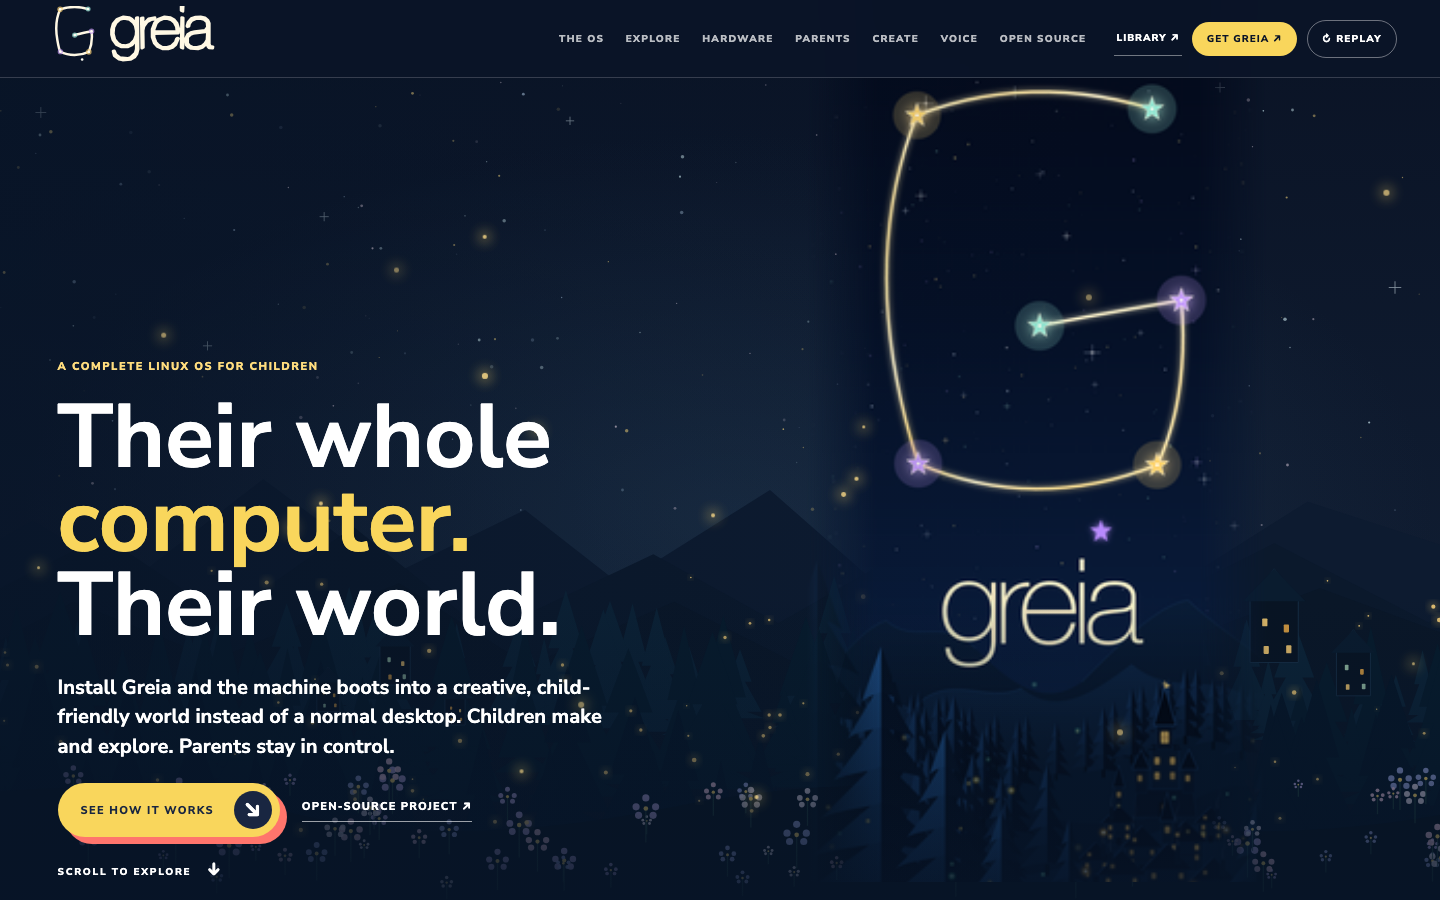
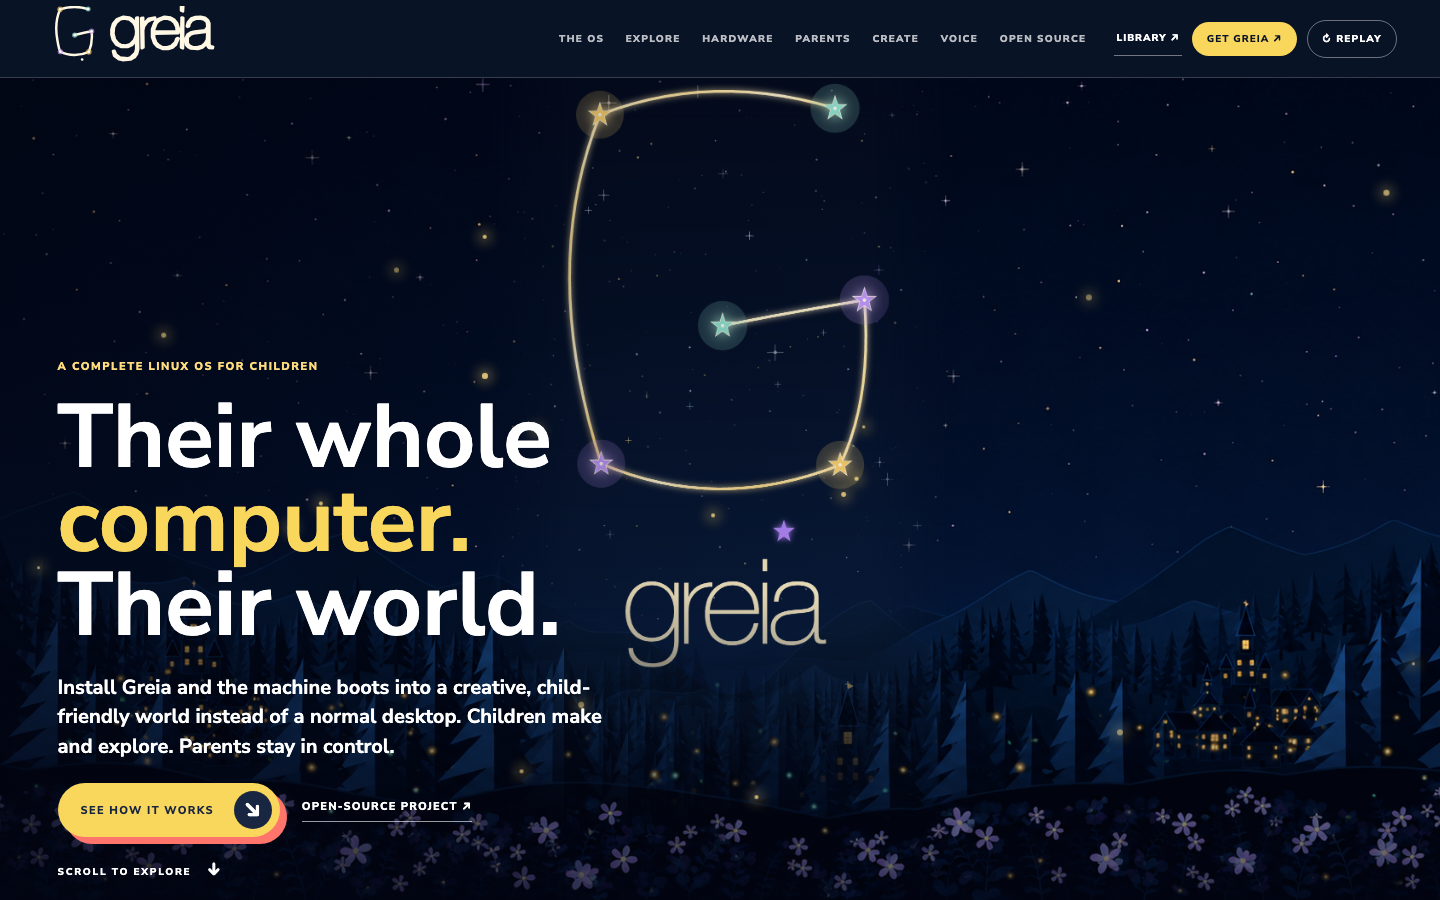
Align website opening with original Greia boot artwork

diff --git a/website/site.css b/website/site.css
@@ -44,3 +44,13 @@ html{scroll-padding-top:83px}body{background:var(--cream);color:var(--ink);overf
 .opening h1,.section h2,.mission-head h2,.gallery-story h3,.hardware-copy h3,.architecture-detail h3,.parent-controls h3,.pack-panel h3,.impact-grid h3,.next-steps h2,.footer-mark p,.os-flow strong{letter-spacing:0}
 @media(min-width:901px){.boot-window{left:72%}.opening-interface{max-width:610px}.opening h1{font-size:clamp(73px,6.2vw,100px)}}
 @media(min-width:621px) and (max-width:900px){.boot-window{top:31%;left:62%;width:min(40vw,390px)}.opening-interface{max-width:510px}.opening h1{font-size:clamp(63px,8vw,78px)}}
+
+/* Website panorama follows the original 1080×2922 boot art's palette and silhouettes. */
+.opening{background:#020512}
+.wide-landscape{object-position:center bottom}
+.boot-window{mask-image:linear-gradient(90deg,transparent 0%,#000 18%,#000 82%,transparent 100%)}
+.boot-window img{mask-image:linear-gradient(to bottom,#000 0%,#000 68%,transparent 94%)}
+.opening-vignette{background:linear-gradient(90deg,#020512a3 0%,#02051226 45%,transparent 78%),linear-gradient(0deg,#020512a8 0%,transparent 29%)}
+@media(max-width:620px){.boot-window{top:1%}.boot-window img{mask-image:linear-gradient(to bottom,#000 0%,#000 82%,transparent 100%)}.opening-vignette{background:linear-gradient(0deg,#020512 0%,#020512e0 29%,#0205121c 70%,transparent 100%)}}
+@media(min-width:901px){.boot-window{left:50%}}
+@media(min-width:901px) and (max-width:1200px){.boot-window{left:70%}}

diff --git a/website/site.js b/website/site.js
@@ -3,7 +3,8 @@ const $ = selector => document.querySelector(selector);
 const $$ = selector => [...document.querySelectorAll(selector)];
 const reducedMotion = matchMedia('(prefers-reduced-motion: reduce)').matches;
 
-// The original 52 PNGs remain the animation authority; the wide SVG only extends their landscape.
+// The original 52 PNGs remain the animation authority; the high-resolution
+// final frame replaces the small playback frame once the opening ends.
 const frames = Array.from({length: 52}, (_, index) => {
   const image = new Image();
   image.src = `assets/boot/frame_${String(index).padStart(4, '0')}.png`;
@@ -14,7 +15,7 @@ let openingFrame = 0;
 function finishOpening(run) {
   if (run !== openingRun) return;
   cancelAnimationFrame(openingFrame);
-  $('#boot-frame').src = frames[51].src;
+  $('#boot-frame').src = 'assets/boot/frame_0051-hires.png';
   $('#intro-counter').textContent = '52 / 52';
   document.body.classList.remove('is-opening');
   document.body.classList.add('is-ready');

diff --git a/website/index.html b/website/index.html
@@ -22,9 +22,9 @@
 
   <main>
     <section class="opening" id="top" aria-label="Greia opening">
-      <img class="wide-landscape" src="assets/brand/greia-night-wide.svg" alt="" aria-hidden="true">
+      <img class="wide-landscape" src="assets/brand/greia-night-panorama-v2.png" alt="" aria-hidden="true">
       <div class="fireflies" id="fireflies" aria-hidden="true"></div>
-      <div class="boot-window" aria-hidden="true"><img id="boot-frame" src="assets/boot/frame_0051.png" alt=""></div>
+      <div class="boot-window" aria-hidden="true"><img id="boot-frame" src="assets/boot/frame_0051-hires.png" alt=""></div>
       <div class="opening-vignette" aria-hidden="true"></div>
       <button class="skip-intro" id="skip-intro" type="button">Skip opening ↗</button>
       <div class="opening-interface">

diff --git a/docs/plans/2026-08-20_GREIA_VISUAL_FOUNDATION_AND_ASSET_SYSTEM.md b/docs/plans/2026-08-20_GREIA_VISUAL_FOUNDATION_AND_ASSET_SYSTEM.md
@@ -298,7 +298,7 @@ Evidence class: **SIMULATOR VISUAL REVIEW**.
 | Generic library | full source harvest complete; Batch A owner-reviewed selectively |
 | Generic Batch B rule | remains unauthorized; Encyclopedia topic-specific art should normally stay Activity-local |
 | Canonical cast | six-character v0.1 runtime family accepted; integrate intentionally rather than tiny corner stamps |
-| Public website | owner promoted the first direction to the official website work in progress at `website/`; it now uses the authentic 52-frame logo intro, continuous pointer-responsive fireflies, English Simulator captures, single-screen Parent enlargement, detailed OS/hardware/agent-authoring/voice/network/education copy, plus prepared Downloads and individual Activity Library pages. DESIGN SPEC / DESKTOP VISUAL REVIEW only; installer and package releases remain unavailable, with no Greia runtime or Encyclopedia phase change. Historical alternatives remain at `docs/design/website_mocks_2026-09-23/`. |
+| Public website | owner promoted the first direction to the official website work in progress at `website/`. The opening now uses the original high-resolution final boot frame over a source-referenced, website-only wide panorama, with authentic 52-frame playback and continuous pointer-responsive fireflies. English Simulator captures, readable Parent enlargement, detailed OS/hardware/agent-authoring/voice/network/education copy, Downloads and individual Activity Library remain. DESIGN SPEC / DESKTOP VISUAL REVIEW only; installer and package releases remain unavailable, with no Greia runtime or Encyclopedia phase change. Historical alternatives remain at `docs/design/website_mocks_2026-09-23/`. |
 | Prior first-party Batch 1 | `treno_numeri`, `labirinto_magico`, `acquario_magico` accepted historical productization evidence |
 | Next exact action | Build/check/commit the exact current 11-PNG Encyclopedia art pack, run focused tests + required verification on the committed SHA, then capture/review Home + all six sections through the Git-bound real Simulator harness. E4 stays blocked. |
 
@@ -730,3 +730,9 @@ The entries below preserve the workstream chronology. Corrections/new state are 
 - Downloads and per-Activity package buttons are present but disabled until exact reviewed installer or `.greiaactivity` files exist. The source repository and Activity authoring skill are linked; public visibility and release readiness remain separate gates. No Greia OS, physical-device, production deployment, Activity release or Encyclopedia acceptance is claimed by this website work.
 - Local Chromium review exercised intro/replay/skip, firefly movement, gallery/filter/lightbox, hardware/Parent/idea switches, voice loading, library search/filter/details and inactive release buttons across desktop and mobile sizes. Evidence scope: **DESIGN SPEC / DESKTOP VISUAL REVIEW** of website source plus **SIMULATOR VISUAL REVIEW** for the newly selected English development captures only.
 - Repository `make verify` attempted 3,646 tests on macOS and failed at the known Linux-only Session 04 product-host boundary (3 errors, 1 failure) plus one transient root boot-health timeout in the broad run; the exact timeout test passed in a focused rerun after bytecode cleanup. Browser/source visual checks passed separately. This is not a full `make verify` PASS or a change to platform release acceptance.
+
+## 2026-09-24 — Official website opening corrected against original boot artwork
+
+- Owner rejected the official site's guessed wide trees, mountains, houses and colors. Inspected the 17 August boot patch and its Plymouth script: it centers/plays 52 small rendered frames but includes no editable SVG or scene generator. Located the original 1080×2922 rendered frames outside the repository and used its final frame directly for the large central G, Greia wordmark and forest.
+- Replaced the official website's guessed SVG with a website-only panoramic extension made with the original high-resolution final frame as image reference. The extension follows the source's near-black navy palette, fine blue mountain outlines, intricate sharp pine silhouettes, small warm-window village, sparse stars and lilac foreground flowers. The original final frame overlays it; the 52 canonical small playback frames remain unchanged. Removed the obsolete official-site SVG and recorded exact asset provenance and hashes in `website/README.md`.
+- Evidence is **DESIGN SPEC / DESKTOP VISUAL REVIEW** of the local website opening. The wide background is a generated derivative, not an original boot master or exact vector reconstruction. This does not change Greia OS boot assets, accepted brand masters, device acceptance, release readiness or the Encyclopedia/R7 route.

diff --git a/HANDOVER.md b/HANDOVER.md
@@ -1851,3 +1851,11 @@ Local Chromium checks covered all three pages at 1440, 1024, 768, 390 and 320 px
 Next website step: review the three local site pages with the owner, then refine the accepted visual/message direction; activate installer and package links only after exact artifacts, tested device scope and publication gates are recorded. Greia's existing blocking architecture, visual Encyclopedia and Session 04 lifecycle continuation routes remain as recorded above.
 
 **Repository gate on this checkout:** `make verify` ran 3,646 tests on macOS and exited 2 with 2 failures/3 errors/6 skips. Four outcomes are the known `tests/test_x8_qemu/test_session04_legs.py` Linux-only product-host boundary (`BLOCKED ... this host reports darwin`). The fifth was `test_t3_update_production.LauncherProductionCallTests.test_apply_accepts_first_install_through_production_seam_exactly_once`, which timed out reading a root boot-health response during the broad run; after bytecode cleanup, that exact test passed in a focused rerun (1 test, 1.165 seconds). No website-specific browser check failed. This is not a full repository verification PASS; the lifecycle product tests require the named Linux host.
+
+## 58. Official website opening rebuilt from original high-resolution boot render (2026-09-24)
+
+The owner rejected the official website's guessed night landscape as visually inconsistent with the real boot art. Investigation of `/Users/taio84/Works/Bimbe_GIOCHI/Greia OS/GREIA_BOOT_ANIMATION_LOCAL_AGENT_PATCH_2026-08-17` found rendered 222×600 frames and Plymouth playback/verification code, but no editable drawing source. The original 1080×2922 rendered sequence was found in `/Users/taio84/Works/Bimbe_GIOCHI/Greia OS/greia_boot_7fps_1080x2922/`. The official homepage now displays that source's final frame at full resolution after the unchanged 52-frame playback; its star G, Greia lettering and central forest are original rendered pixels. A website-only panoramic extension uses that final frame as its reference and follows its dark navy colors, fine mountain lines, dense pointed pines, small lit houses and lilac flowers. The previously guessed wide SVG was removed from the official site. Exact file hashes and the derivative boundary are recorded in `website/README.md`; the OS boot assets and historical design studies were not changed.
+
+This is website **DESIGN SPEC / DESKTOP VISUAL REVIEW**, not a reconstructed original vector master or OS/hardware acceptance. The active Encyclopedia, R7 and install/release routes remain as previously recorded. Next website step is owner visual review of the corrected first screen; verified installer and Activity package publication remain separate gates.
+
+Source checks: the copied high-resolution final frame has the same SHA-256 as the discovered original; the derived panorama is 1672×941, and `node --check website/site.js` plus `git diff --check` passed. The corrected opening was visually inspected from earlier local 1440, 1024, 390 and 320 px captures; the final mobile CSS adjustment moved only the original-frame layer upward to clear its wordmark from the headline. A further live in-app browser open of the local `file://` site was rejected by browser URL policy, so no post-adjustment browser run is claimed. The previous full `make verify` limitations on macOS remain as recorded in entry 57; this visual-only website tranche did not rerun OS verification.

diff --git a/docs/handovers/GREIA_VISUAL_SYSTEM_RESUME.md b/docs/handovers/GREIA_VISUAL_SYSTEM_RESUME.md
@@ -355,4 +355,4 @@ Post-activity-pass acceptance SHA is e2b831da (Activity modernization COMPLETE, 
 - no narration integration in this visual lane;
 - no R7/hardware claims from Activity visual work.
 
-The owner promoted the first website direction to the official site work in progress at `website/index.html`, with `website/downloads.html`, `website/library.html` and `website/README.md`. The full Greia night scene replays the unchanged 52 boot frames and has continuously moving fireflies that respond to nearby pointer motion. The site uses English real-service Simulator captures except for an explicit English/Italian language comparison, a readable single-screen Parent enlargement, six real cast voice clips, and fuller parent-facing OS, hardware, architecture, network, agent-authoring and educational messaging. Installer and per-Activity package controls remain disabled until verified files exist. The old first-concept URL redirects to the official WIP; Wonder Map and Scribble Machine remain historical alternatives. The transparent website identity derivative remains website-specific, not an accepted brand master. Evidence is DESIGN SPEC / DESKTOP VISUAL REVIEW plus development Simulator visual captures only; Encyclopedia E4 and R7 continuation routes are unchanged.
+The owner promoted the first website direction to the official site work in progress at `website/index.html`, with `website/downloads.html`, `website/library.html` and `website/README.md`. After owner rejection of the guessed wide landscape, the opening was rebuilt around the discovered original 1080×2922 rendered boot artwork: the original high-resolution final frame supplies the central G/Greia/forest, while a website-only generated panorama extends its specific palette, mountain lines, pine silhouettes, small warm-window village and lilac flowers. The 17 August patch contains Plymouth playback code and 222×600 rendered frames, not editable scene source. The 52 unchanged small frames still animate, then the original high-resolution final frame appears. Continuous pointer-responsive fireflies remain. Asset origin, hashes and the derived-background boundary are in `website/README.md`. The site uses English real-service Simulator captures except for an explicit English/Italian language comparison, a readable single-screen Parent enlargement, six real cast voice clips, and fuller parent-facing OS, hardware, architecture, network, agent-authoring and educational messaging. Installer and per-Activity package controls remain disabled until verified files exist. The old first-concept URL redirects to the official WIP; Wonder Map and Scribble Machine remain historical alternatives. The transparent small identity derivative remains website-specific, not an accepted brand master. Evidence is DESIGN SPEC / DESKTOP VISUAL REVIEW plus development Simulator visual captures only; Encyclopedia E4 and R7 continuation routes are unchanged. Next website step is owner visual review of the corrected opening.

diff --git a/website/README.md b/website/README.md
@@ -10,8 +10,10 @@ The GitHub links point to the repository's canonical remote. Public repository v
 
 ## Asset provenance
 
-- `assets/boot/frame_0000.png` through `frame_0051.png` are copies of Greia's canonical rendered boot frames. The website replays them unchanged against a wider, website-specific SVG landscape.
-- `assets/brand/greia-night-wide.svg`, `greia-mark-light.svg` and `greia-lockup-light.svg` are website-specific presentation derivatives. They do not replace the canonical boot/logo source.
[2 lines of base64/hex data omitted]
+- The external `GREIA_BOOT_ANIMATION_LOCAL_AGENT_PATCH_2026-08-17` contains only rendered 222×600 frames, Plymouth playback configuration and verification code. Its playback script centers and advances the frames; it does not draw the landscape. No editable SVG or scene generator was found there. The high-resolution render directory above is the closest discovered source artwork.
+- `greia-mark-light.svg` and `greia-lockup-light.svg` are website-specific small presentation derivatives. They do not replace the canonical boot/logo source.
 - `assets/screens/*-en.png` are English real-service Simulator captures of the Shell or named source Activities, captured 23 September 2026. `encyclopedia-it.png` is the corresponding Italian capture used only in the language comparison. These are development screenshots, not physical-device or release proof.
 - `assets/parent/this-greia-1024x600.png` is one real English Greia Parents development-client viewport from `../Greia-Parent-App-Html/tmp/parent-system-output-controls-acceptance-2026-09-02/1024x600_viewport.png`. The enlargement displays this single screen at a readable size.
 - `assets/characters/`, `assets/voices/` and `assets/fonts/` are copies of accepted Greia cast art, recorded introductions and repository Nunito fonts for a standalone preview.
